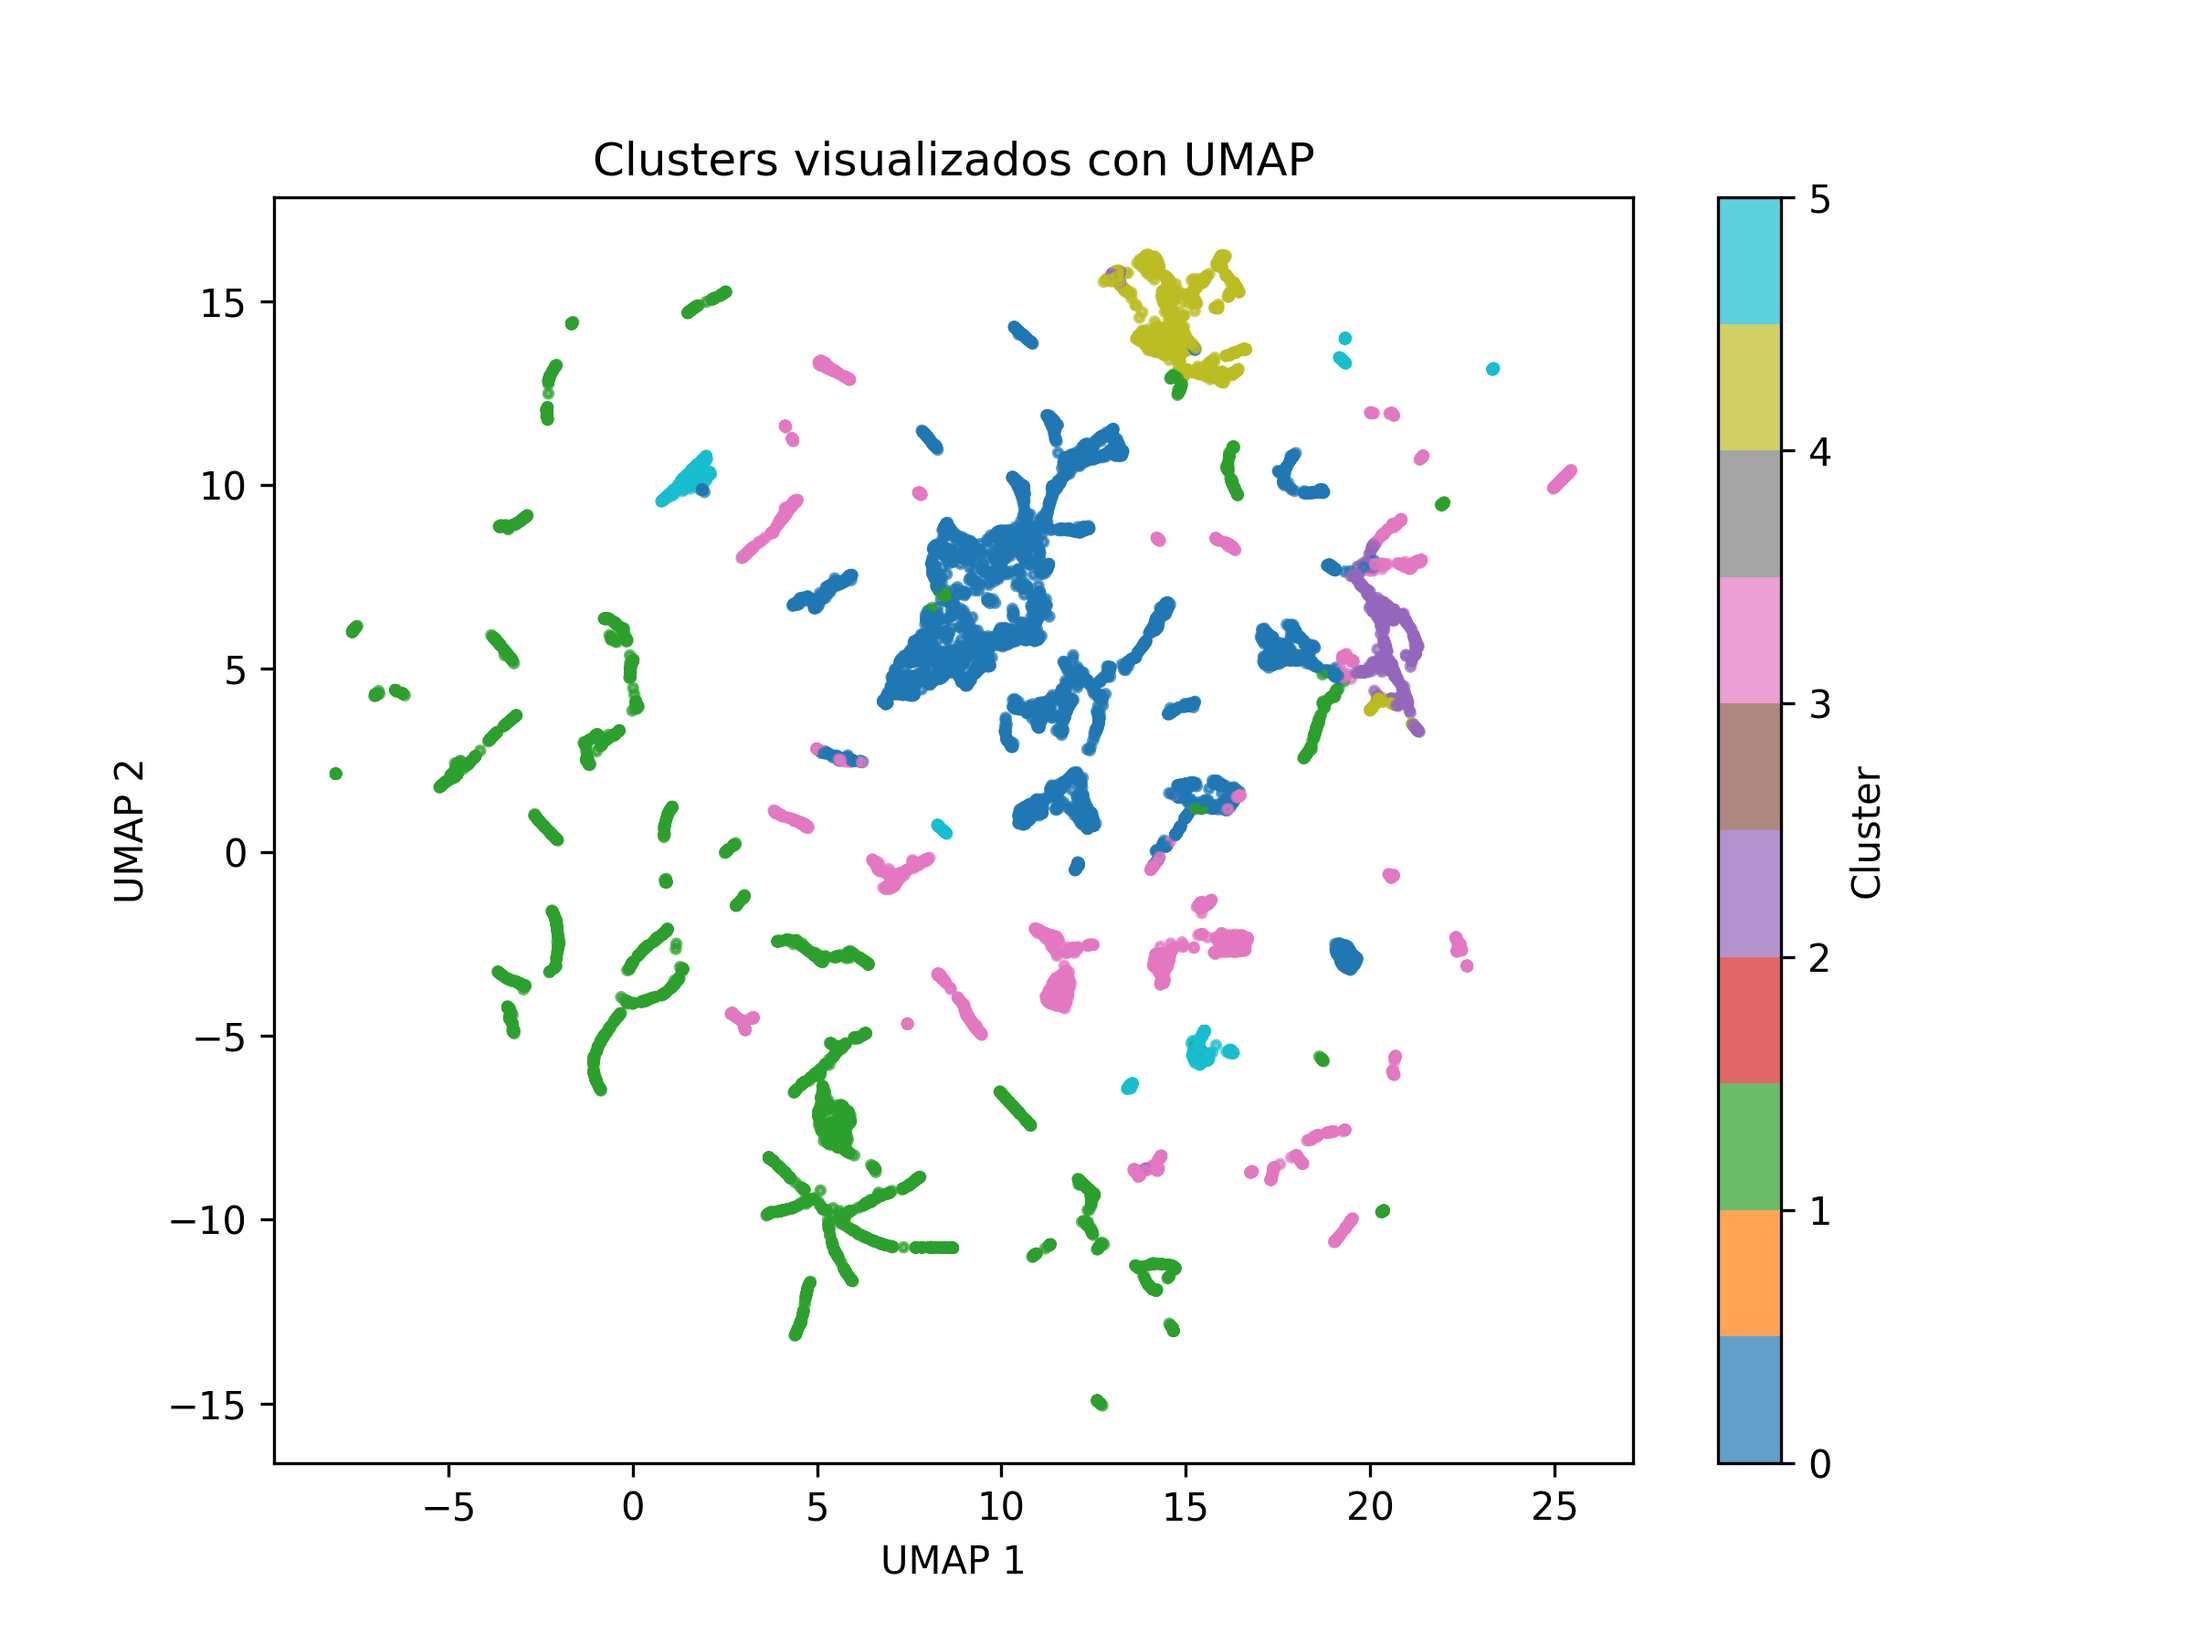
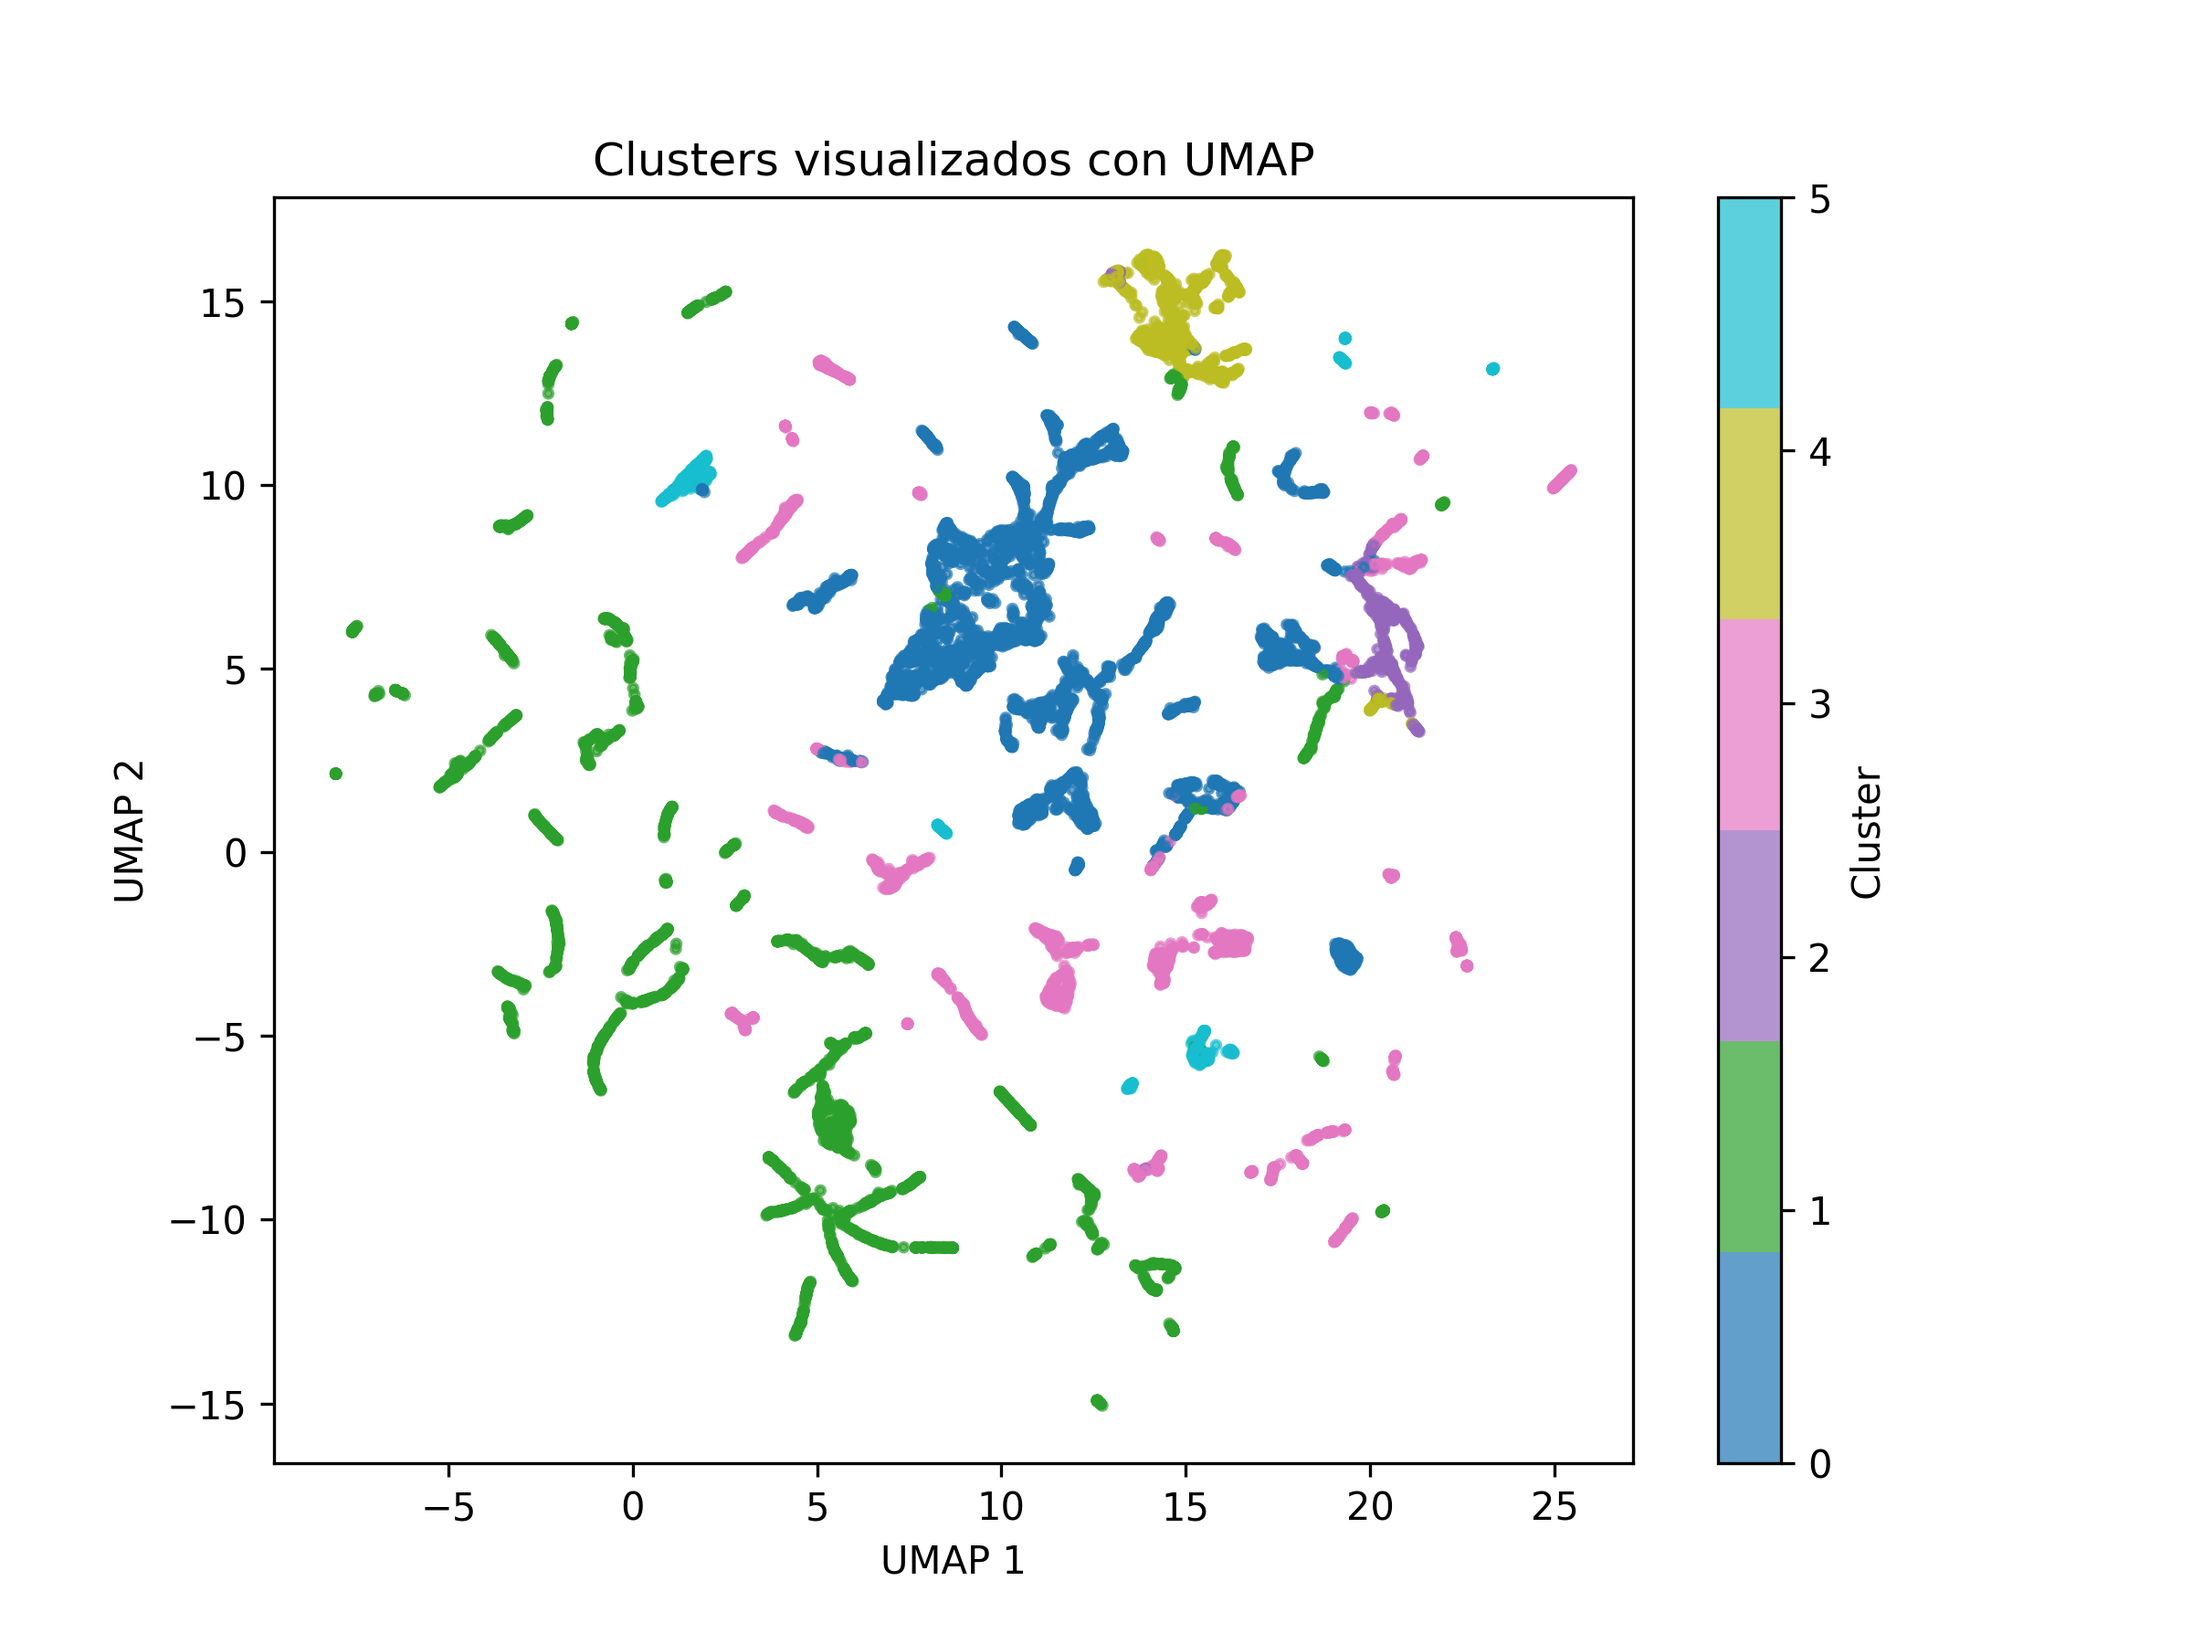
Streamlit: ajsute de rutas, modificación del diccionario de datos, cambio de visualización de nombres de métricas y ajuste de imágenes de umap y clusters.

diff --git a/app/app.py b/app/app.py
@@ -5,7 +5,6 @@
 from __future__ import annotations
 from typing import Dict, Any, Tuple
 
-import os
 from pathlib import Path
 
 import pandas as pd
@@ -23,9 +22,8 @@ st.caption("Explora datos inmobiliarios, visualiza KPIs, mapas y gráficos compa
 
 # ---------------------- CARGA DE DATOS ----------------------------
 
-# ⚠ Asegúrate de que esta ruta apunte a TU CSV con IAV:
-DEFAULT_PATH = r"C:\Users\andre\OneDrive\Documentos\IMF\TFM\TFM_app\viviendas_2011_2024_IAV.csv"
-GEO_PATH = "madrid_distritos_geo.json"
+DEFAULT_PATH = "data/final/viviendas_2011_2024_IAV.csv"
+GEO_PATH = "app/madrid_distritos_geo.json"
 
 @st.cache_data(show_spinner=True)
 def load_csv(path: str) -> pd.DataFrame:
@@ -62,9 +60,12 @@ st.success(f"✓ Datos cargados: {df.shape[0]:,} registros")
 # ---------------------- UTILIDADES -------------------------------------------
 
 DISTRITO_MAPPING = {
-    'FUENCARRALELPARDO': 'FUENCARRAL EL PARDO', 'MONCLOAARAVACA': 'MONCLOA ARAVACA',
-    'PUENTEDEVALLECAS': 'PUENTE DE VALLECAS', 'CIUDADLINEAL': 'CIUDAD LINEAL',
-    'VILLADEVALLECAS': 'VILLA DE VALLECAS', 'SANBLASCANILLEJAS': 'SAN BLAS CANILLEJAS',
+    'FUENCARRALELPARDO': 'FUENCARRAL EL PARDO',
+    'MONCLOAARAVACA': 'MONCLOA ARAVACA',
+    'PUENTEDEVALLECAS': 'PUENTE DE VALLECAS',
+    'CIUDADLINEAL': 'CIUDAD LINEAL',
+    'VILLADEVALLECAS': 'VILLA DE VALLECAS',
+    'SANBLASCANILLEJAS': 'SAN BLAS CANILLEJAS',
 }
 def _norm(x: str) -> str:
     if x is None:
@@ -187,13 +188,45 @@ st.divider()
 
 # ===================== Diccionario de datos =====================
 with st.expander("📚 Diccionario de datos"):
-    st.markdown("""
-- **IAV_compra**: Renta media del hogar / (Precio de venta €/m² × 40 m²). **≥ 1 accesible**, **< 1 no accesible**.
-- **Esfuerzo_compra**: Precio de venta / Renta bruta del hogar. **Años de renta bruta** para comprar (cuanto menor, mejor).
-- **IAV_alquiler**: Renta media del hogar / (Precio de alquiler €/m² × 40 m² × 12). **≥ 1 cubre alquiler**, **< 1 no cubre**.
-- **Esfuerzo_alquiler (%)**: Precio de alquiler €/m² × 40 m² × 12 / Renta media del hogar) × 100. **≤30% sostenible**, **30–35% tensión**, **>35% sobreesfuerzo**.
-- **Precio_ajustado**: precio corregido por distrito (método híbrido: **α** + límites **±15% venta / ±5% alquiler** + ruido controlado) para alinear la proyección con el mercado.
-""")
+    st.markdown("### Indicadores de accesibilidad y esfuerzo")
+
+    st.markdown("**IAV compra**: Índice de accesibilidad a la vivienda en compra.")
+    st.latex(r"""
+    IAV_{compra} = 
+    \frac{\text{Renta media del hogar}}
+    {\text{Precio de venta (€/m}^{2}) \times 40}
+    """)
+    st.markdown("≥ 1 → accesible; < 1 → no accesible")
+
+    st.markdown("**Esfuerzo compra**: Años de renta bruta necesarios para comprar.")
+    st.latex(r"""
+    Esfuerzo_{compra} = 
+    \frac{\text{Precio de venta}}{\text{Renta bruta del hogar}}
+    """)
+    st.markdown("≤ 5 → poco esfuerzo; > 5 → mucho esfuerzo")
+
+    st.markdown("**IAV alquiler**: Capacidad de cubrir el alquiler con la renta media del hogar.")
+    st.latex(r"""
+    IAV_{alquiler} = 
+    \frac{\text{Renta media del hogar}}
+    {\text{Precio de alquiler (€/m}^{2}) \times 40 \times 12}
+    """)
+    st.markdown("≥ 1 → cubre alquiler; < 1 → no cubre")
+
+    st.markdown("**Esfuerzo alquiler (%)**: Porcentaje de la renta destinado al alquiler.")
+    st.latex(r"""
+    Esfuerzo_{alquiler}(\%) = 
+    \frac{\text{Precio de alquiler (€/m}^{2}) \times 40 \times 12}
+    {\text{Renta media del hogar}} \times 100
+    """)
+    st.markdown("≤ 30% → sostenible; 30–35% → tensión; > 35% → sobreesfuerzo")
+
+    st.markdown("**Precio ajustado**: Precio corregido por distrito (método híbrido).")
+    st.latex(r"""
+    Precio_{ajustado} = 
+    \alpha \pm (\text{15\% venta / 5\% alquiler}) + \text{ruido controlado}
+    """)
+    st.markdown("Alinea la proyección con el mercado.")
 
 # ---------------------- MAPA INTERACTIVO ----------------------
 st.subheader("🗺 Mapa por distrito (elige la variable)")
@@ -330,7 +363,7 @@ else:
             feat["properties"]["IAV_compra_mediana"]        = data.get("IAV_compra_mediana")
             feat["properties"]["IAV_alquiler_mediana"]      = data.get("IAV_alquiler_mediana")
             feat["properties"]["Esfuerzo_alquiler_mediana"] = data.get("Esfuerzo_alquiler_mediana")
-            feat["properties"]["Esfuerzo_compra_mediana"] = data.get("Esfuerzo_compra_mediana")
+            feat["properties"]["Esfuerzo_compra_mediana"]   = data.get("Esfuerzo_compra_mediana")
 
             v = data.get(sel_col)
             if v is not None:
@@ -343,7 +376,7 @@ else:
             feat["properties"]["_iavc_fmt"]           = fmt_n(feat["properties"]["IAV_compra_mediana"])
             feat["properties"]["_iava_fmt"]           = fmt_n(feat["properties"]["IAV_alquiler_mediana"])
             feat["properties"]["_esf_fmt"]            = fmt_n(feat["properties"]["Esfuerzo_alquiler_mediana"], "%")
-            feat["properties"]["_esf_c_fmt"] = fmt_n(feat["properties"]["Esfuerzo_compra_mediana"])
+            feat["properties"]["_esf_c_fmt"]          = fmt_n(feat["properties"]["Esfuerzo_compra_mediana"])
 
         if not valores_validos:
             st.warning("⚠ No hay valores numéricos para colorear el mapa con los filtros actuales.")
@@ -412,6 +445,7 @@ else:
                 <p style="margin: 5px 0;"><b>IAV compra (mediana):</b> {_iavc_fmt}</p>
                 <p style="margin: 5px 0;"><b>IAV alquiler (mediana):</b> {_iava_fmt}</p>
                 <p style="margin: 5px 0;"><b>Esfuerzo alquiler (mediana):</b> {_esf_fmt}</p>
+                <p style="margin: 5px 0;"><b>Esfuerzo compra (mediana):</b> {_esf_c_fmt}</p>
             </div>
             """,
             "style": {"backgroundColor": "white", "color": "black", "fontSize": "12px",
@@ -477,6 +511,12 @@ with tab3:
 
 # ===================== Pestaña: Evolución temporal =====================
 ts_tab, = st.tabs(["📈 Evolución temporal"])
+
+# Función para cambiar nombre visualizado de métricas para aplicarlo más adelante
+metricas = ["Precio_ajustado", "IAV_alquiler","Esfuerzo_alquiler", "IAV_compra", "Esfuerzo_compra"]
+def nombres_metricas(met):   
+    return met.replace("_", " ")
+
 with ts_tab:
     if "Ano" not in filtered_df.columns:
         st.info("No hay columna 'Ano' para series temporales.")
@@ -484,7 +524,8 @@ with ts_tab:
         # Métrica a visualizar
         metrica = st.radio(
             "Métrica",
-            ["Precio_ajustado", "IAV_alquiler","Esfuerzo_alquiler", "IAV_compra", "Esfuerzo_compra"],
+            metricas,
+            format_func=nombres_metricas,
             horizontal=True,
             key="ts_metric"
         )
@@ -532,45 +573,42 @@ with ts_tab:
 
 
 # ===================== Pestaña: Visualización 2D con UMAP =====================
-from pathlib import Path
 
 umap_tab, = st.tabs(["VISUALIZACIÓN"])
 with umap_tab:
-    st.caption("Proyección bidimensional de tus observaciones mediante UMAP.")
+    st.caption("Proyección bidimensional de las observaciones mediante UMAP y distribución de los clusters por distrito.")
 
     # Pestañas internas: UMAP y Evolución de clusters
-    tab_umap, tab_evo = st.tabs(["📌 UMAP 2D", "⏱ Evolución de los clusters"])
+    tab_umap, tab_evo = st.tabs(["📌 UMAP 2D", "✳ Distribución de los clusters"])
 
     # ---- Tab 1: UMAP 2D ----
     with tab_umap:
-        umap_path = Path(__file__).parent / "umap.jpg"
-        if umap_path.exists():
+        umap_path = "reports/figures/umap.png"
+        if umap_path:
             st.image(str(umap_path), caption="Visualización 2D con UMAP", use_container_width=True)
             with open(umap_path, "rb") as f:
                 st.download_button("Descargar imagen (PNG)", f, file_name="umap.png")
         else:
-            st.warning("No encuentro **umap.jpg** en la carpeta de la app. Ponlo junto a `app.py`.")
+            st.warning("No se encuentra **umap.png**. Colocar en reports/figures.")
 
     # ---- Tab 2: Evolución temporal de los clusters ----
     with tab_evo:
-        evo_path = Path(__file__).parent / "EVOLUCION TEMPORAL DE LOS CLUSTERS.jpg"
-        if evo_path.exists():
-            st.image(str(evo_path), caption="Evolución temporal de los clusters", use_container_width=True)
+        evo_path = "reports/figures/porcentaje_viviendas_distrito_cluster.png"
+        if evo_path:
+            st.image(str(evo_path), caption="Distribución de los clusters", use_container_width=True)
             with open(evo_path, "rb") as f:
                 st.download_button(
-                    "Descargar imagen (JPG)",
+                    "Descargar imagen (PNG)",
                     f,
-                    file_name="EVOLUCION_TEMPORAL_DE_LOS_CLUSTERS.jpg"
+                    file_name="porcentaje_viviendas_distrito_cluster.png"
                 )
         else:
-            st.warning("No encuentro **EVOLUCION TEMPORAL DE LOS CLUSTERS.jpg** en la carpeta de la app.")
+            st.warning("No se encuentra **porcentaje_viviendas_distrito_cluster.png**. Colocar en reports/figures.")
 
 
 
 # ===================== Tabla de clusters (UMAP) =====================
 st.markdown("### Tabla de clusters (interpretación UMAP)")
-
-import pandas as pd
 
 clusters_data = [
     {
@@ -625,10 +663,8 @@ st.download_button(
 # ===================== Mapa: Tasa de gentrificación (Cluster_KMeans) =====================
 st.subheader("🗺 Tasa de gentrificación por distrito (%) — KMeans")
 
-from pathlib import Path
-
 # 1) Cargar cluster.csv 
-CLUSTERS_PATH = Path(__file__).parent / "cluster.csv"
+CLUSTERS_PATH = "app/cluster.csv"
 
 @st.cache_data(show_spinner=True)
 def load_clusters_csv(path: Path) -> pd.DataFrame:
